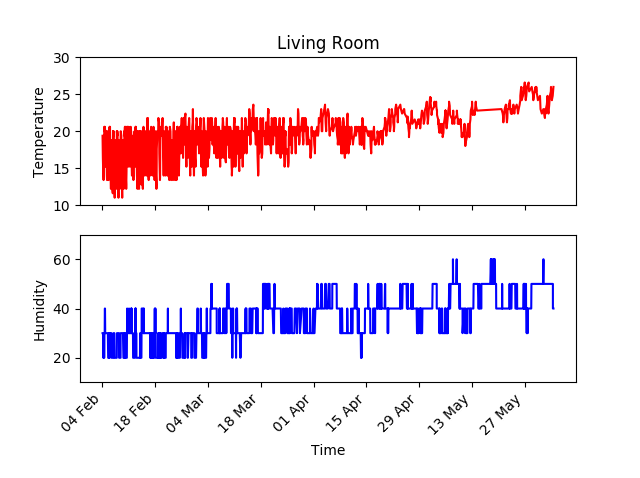
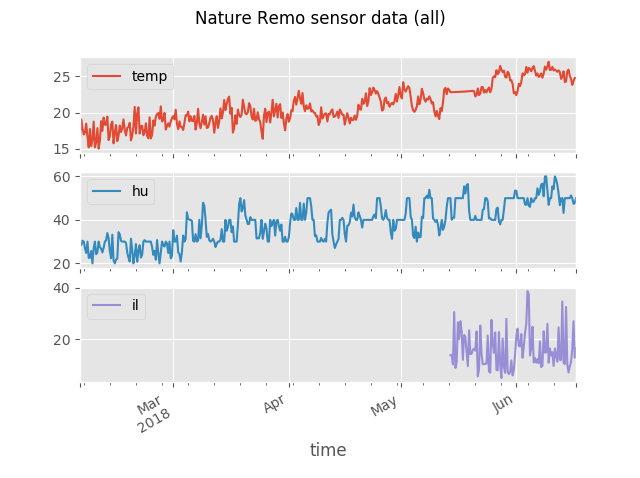
Using pandas plot

diff --git a/visualizer/remo_graph.py b/visualizer/remo_graph.py
@@ -1,50 +1,44 @@
+#
+# Nature remo sensor data visualizer
+#
+
+#import and initialize
 import numpy as np
 import pandas as pd
 import datetime as dt
+import matplotlib
 import matplotlib.pyplot as plt
 import matplotlib.dates as mdates
 
+plt.style.use('ggplot') 
 
 #read data from cvs to pandas data frame
-df = pd.read_csv('temp.txt', names=['time', 'temp'])
-df.time = pd.to_datetime(df.time,format='%Y-%m-%dT%H:%M:%SZ')
-df.time = df.time + dt.timedelta(hours=9)
+df_temp = pd.read_csv('temp.txt', names=['time', 'temp'])
+df_temp.time = pd.to_datetime(df_temp.time,format='%Y-%m-%dT%H:%M:%SZ')
+df_temp.time = df_temp.time + dt.timedelta(hours=9)
 
-df2 = pd.read_csv('hu.txt', names=['time', 'hu'])
-df2.time = pd.to_datetime(df2.time,format='%Y-%m-%dT%H:%M:%SZ')
-df2.time = df2.time + dt.timedelta(hours=9)
+df_hu = pd.read_csv('hu.txt', names=['time', 'hu'])
+df_hu.time = pd.to_datetime(df_hu.time,format='%Y-%m-%dT%H:%M:%SZ')
+df_hu.time = df_hu.time + dt.timedelta(hours=9)
+
+df_il = pd.read_csv('il.txt', names=['time', 'il'])
+df_il.time = pd.to_datetime(df_il.time,format='%Y-%m-%dT%H:%M:%SZ')
+df_il.time = df_il.time + dt.timedelta(hours=9)
+
+#data marge
+df = pd.merge(df_temp, df_hu, how='outer', on='time')
+df = pd.merge(df, df_il, how='outer', on='time')
+df = df.sort_values('time')
+df = df.reset_index(drop=True)
+df = df.interpolate().resample('8H', on='time').mean()
 
 #output stats
-print('Temperature::')
-print(df.describe())
-print('Humidity::')
-print(df2.describe())
+#print('Temperature::')
+#print(df_temp.describe())
+#print('Humidity::')
+#print(df2.describe())
 
 #plots
-fig = plt.figure()
-
-ax1 = fig.add_subplot(2,1,1)
-ax2 = fig.add_subplot(2,1,2)
-
-ax1.set_title('Living Room')
-ax2.set_xlabel('Time')
-
-#temperature
-ax1.plot(df['time'],df['temp'], color='red')
-ax1.set_ylabel('Temperature')
-ax1.set_ylim([10,30])
-
-
-#humidity
-ax2.plot(df2['time'],df2['hu'], color='blue')
-ax2.set_ylabel('Humidity')
-ax2.set_ylim([10,70])
-
-#layout x-axis
-days = mdates.AutoDateLocator()
-daysFmt = mdates.DateFormatter("%d %b")
-ax2.xaxis.set_major_locator(days)
-ax2.xaxis.set_major_formatter(daysFmt)
-fig.autofmt_xdate(rotation=45)
+df.plot(subplots=True, title='Nature Remo sensor data (all)')
 
 plt.show()

diff --git a/visualizer/remo_graph_old.py b/visualizer/remo_graph_old.py
@@ -1,0 +1,50 @@
+import numpy as np
+import pandas as pd
+import datetime as dt
+import matplotlib.pyplot as plt
+import matplotlib.dates as mdates
+
+
+#read data from cvs to pandas data frame
+df = pd.read_csv('temp.txt', names=['time', 'temp'])
+df.time = pd.to_datetime(df.time,format='%Y-%m-%dT%H:%M:%SZ')
+df.time = df.time + dt.timedelta(hours=9)
+
+df2 = pd.read_csv('hu.txt', names=['time', 'hu'])
+df2.time = pd.to_datetime(df2.time,format='%Y-%m-%dT%H:%M:%SZ')
+df2.time = df2.time + dt.timedelta(hours=9)
+
+#output stats
+print('Temperature::')
+print(df.describe())
+print('Humidity::')
+print(df2.describe())
+
+#plots
+fig = plt.figure()
+
+ax1 = fig.add_subplot(2,1,1)
+ax2 = fig.add_subplot(2,1,2)
+
+ax1.set_title('Living Room')
+ax2.set_xlabel('Time')
+
+#temperature
+ax1.plot(df['time'],df['temp'], color='red')
+ax1.set_ylabel('Temperature')
+ax1.set_ylim([10,30])
+
+
+#humidity
+ax2.plot(df2['time'],df2['hu'], color='blue')
+ax2.set_ylabel('Humidity')
+ax2.set_ylim([10,70])
+
+#layout x-axis
+days = mdates.AutoDateLocator()
+daysFmt = mdates.DateFormatter("%d %b")
+ax2.xaxis.set_major_locator(days)
+ax2.xaxis.set_major_formatter(daysFmt)
+fig.autofmt_xdate(rotation=45)
+
+plt.show()
